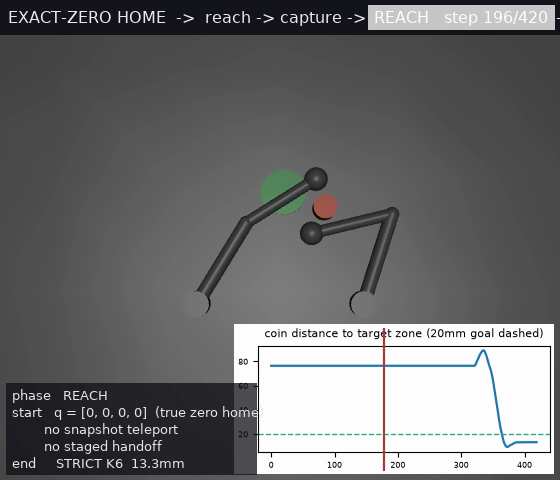
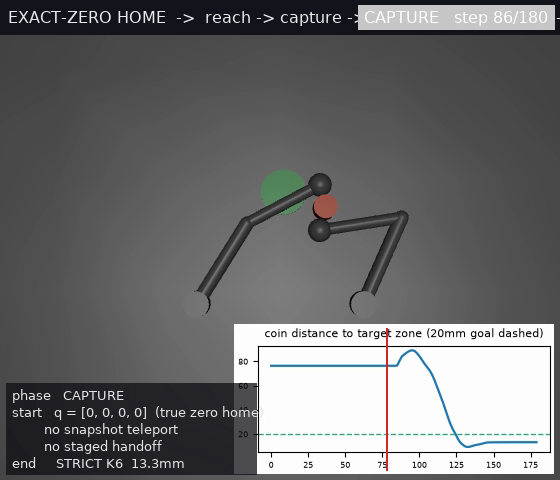
R11.6C-D demo video: accelerate the reach/capture wait (subsample static phases)
User: long wait between reach and delivery. The reach phase carries a 160-step settling hold that is
near-static. Fix: frame-subsample the slow phases (reach 4x -> 310->79 frames, capture 2x -> 20->11)
while keeping the delivery at FULL rate (the transport->K6 money shot stays smooth). No physics change
-- dtz overlay stays aligned (subsampled with the frames), always keeping the last frame.

Opening 420->180 frames (reach+capture wait ~16.5s -> ~4.5s); total video 45s -> 33s. Verified the
reach frame still reads (arms reaching, coin+zone, dtz timeline intact). ruff clean; stills refreshed.

diff --git a/hymeko_rl/experiments/video_r11_6c_composition.py b/hymeko_rl/experiments/video_r11_6c_composition.py
@@ -89,9 +89,19 @@ def deliver_clip(sid: str, smp: Any, fp: dict, Xs: np.ndarray, std: Standardizer
             "final_dtz": round(float(m["dtz_end"]) * 1000, 2), "n": len(film.frames)}
 
 
+REACH_STRIDE, CAPTURE_STRIDE = 4, 2         # the reach hold + capture are mostly static -> subsample them (keep delivery)
+
+
+def _stride(frames: list, dtz: list, k: int) -> "tuple[list, list]":
+    """Keep every k-th frame (and dtz), always including the last -> compress a slow, near-static phase."""
+    idx = sorted(set(range(0, len(frames), k)) | ({len(frames) - 1} if frames else set()))
+    return [frames[i] for i in idx], [dtz[i] for i in idx]
+
+
 def opening_clip(theta: np.ndarray) -> list:
     """The full uncut chain from the true zero home: HOME q=[0,0,0,0] -> reach -> capture -> retrieval-theta transport
-    -> strict K6. First frame is exactly q=[0,0,0,0]; no snapshot teleport, no staged handoff."""
+    -> strict K6. First frame is exactly q=[0,0,0,0]; no snapshot teleport, no staged handoff. The near-static reach/
+    capture phases are frame-subsampled so the wall-clock lands on the delivery; the delivery plays at full rate."""
     rig = _rig()
     cfg = dataclasses.replace(pga.TransitConfig(), substeps=6, hold_steps=160)
     reach_film = _Filmer(_cam())
@@ -107,10 +117,13 @@ def opening_clip(theta: np.ndarray) -> list:
     m = rollout_primitive(snap, clip_theta(theta), CLOSED_LOOP_CFG, frame_hook=deliv_film)
     deliv_film.close()
     k6 = bool(delivery_success(m, CLOSED_LOOP_CFG))
-    frames = reach_film.frames + cap_film.frames + deliv_film.frames
-    dtz = np.asarray(reach_film.dtz_mm + cap_film.dtz_mm + deliv_film.dtz_mm, np.float64)
-    phases = (["REACH"] * len(reach_film.frames) + ["CAPTURE"] * len(cap_film.frames)
-              + ["TRANSPORT"] * len(deliv_film.frames))
+    rf, rd = _stride(reach_film.frames, reach_film.dtz_mm, REACH_STRIDE)
+    cf, cd = _stride(cap_film.frames, cap_film.dtz_mm, CAPTURE_STRIDE)
+    print(f"    reach {len(reach_film.frames)}->{len(rf)} | capture {len(cap_film.frames)}->{len(cf)} | "
+          f"delivery {len(deliv_film.frames)} (full)", flush=True)
+    frames = rf + cf + deliv_film.frames
+    dtz = np.asarray(rd + cd + deliv_film.dtz_mm, np.float64)
+    phases = ["REACH"] * len(rf) + ["CAPTURE"] * len(cf) + ["TRANSPORT"] * len(deliv_film.frames)
     end = f"STRICT K6  {m['dtz_end'] * 1000:.1f}mm" if k6 else f"{m['dtz_end'] * 1000:.0f}mm"
     n = len(frames)
 
